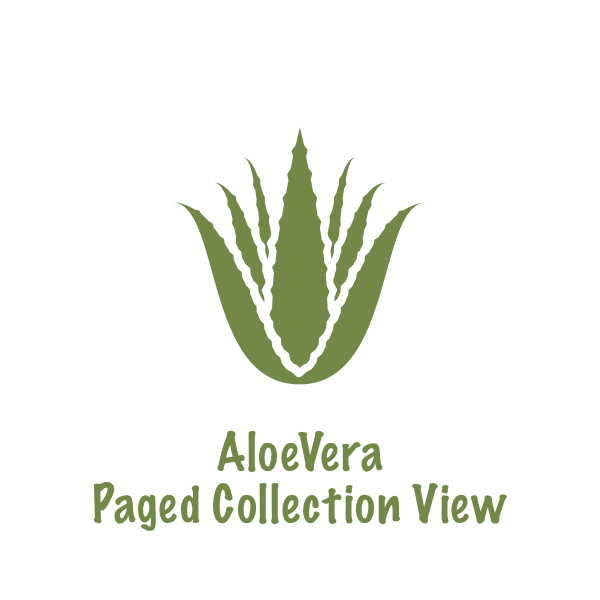
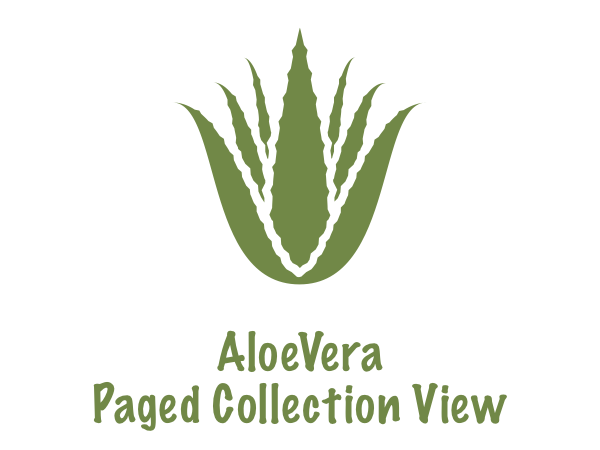
update readme

Changed region(s): [[0.3, 0.0622, 0.69, 0.6533], [0.15, 0.7156, 0.84, 0.9644], [0.39, 0.1244, 0.42, 0.1556]]

diff --git a/README.md b/README.md
@@ -1,16 +1,16 @@
 <p align="center">
-<img width="600" height="600" src="Resources/title.png">
+<img width="600" height="450" src="Resources/title.png">
 </p>
 
-Collection view Layout with simple paging and rotation support
+## Collection view Layout with simple paging and rotation support
 
 There are two CollectionViewFlowLayout:
 - `CenteredItemCollectionViewFlowLayout`
     - Scrolls the collectionView during rotation to show the same item that was visible before rotation
-    - <img width="600" height="300" src="Resources/line-curve.gif">
+    - <img width="600" height="531" src="Resources/centered-item-example.gif">
 - `PagedCollectionViewFlowLayout`
     - Scales the cells during rotation so they always cover the whole page.
-    - <img width="600" height="300" src="Resources/line-curve.gif">
+    - <img width="600" height="531" src="Resources/paged-example.gif">
 
 
 # License
